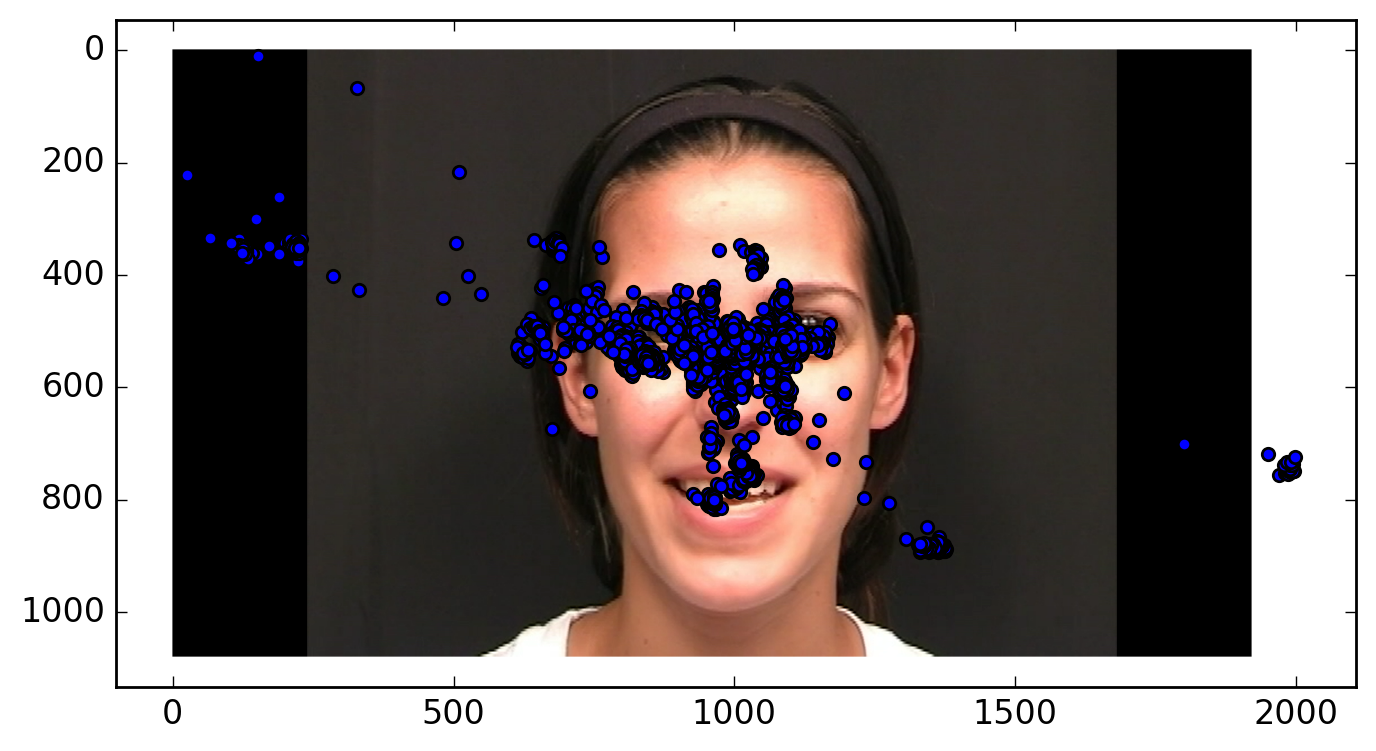
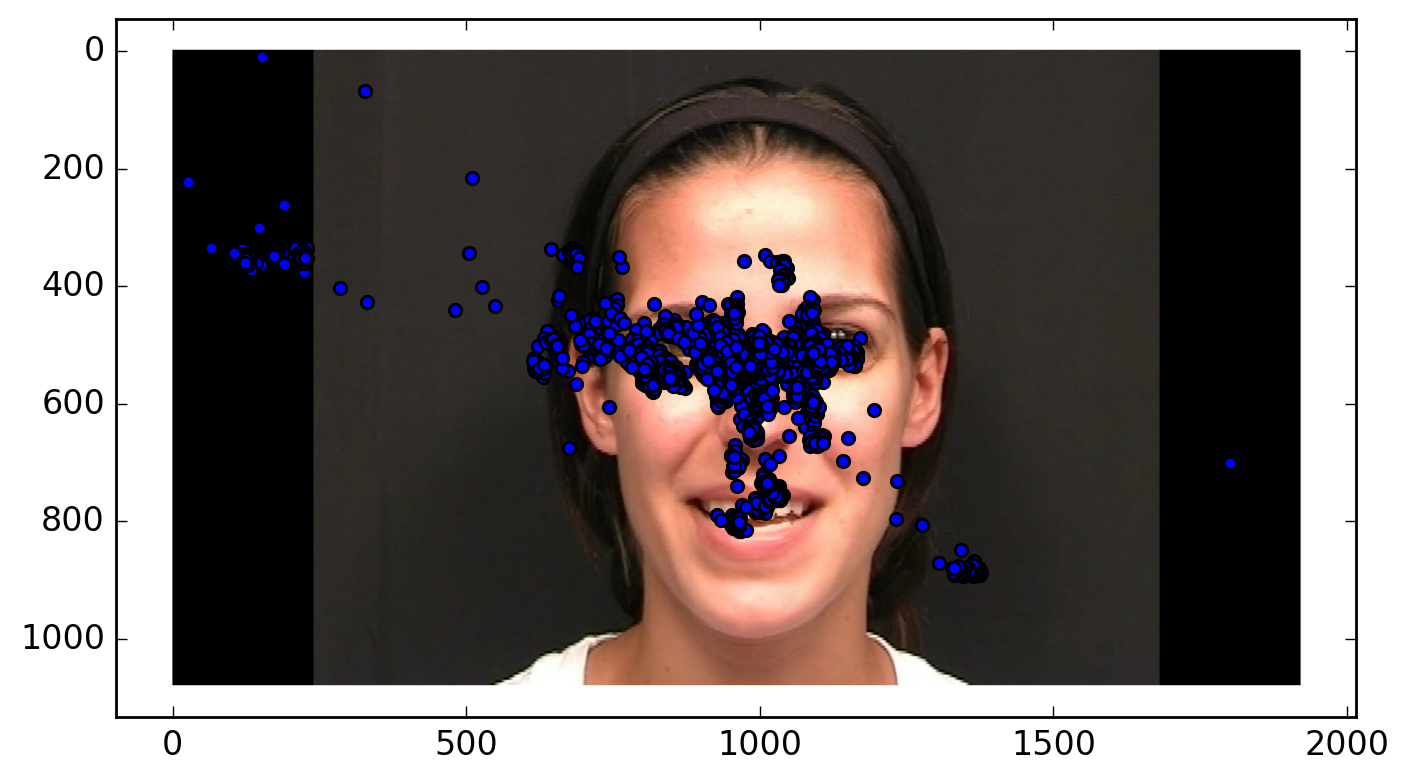
also need to be less than 1

diff --git a/figure_manipulation.py b/figure_manipulation.py
@@ -45,6 +45,6 @@ if __name__ == '__main__':
     attention_per, gazePos = etda.compute_attention_percentage(etdata)
     gazePos_pixel = []
     for gaze in gazePos:
-        if gaze[0]>0 and gaze[1]>0:
+        if 0<gaze[0]<1 and 0<gaze[1]<1:
             gazePos_pixel.append((gaze[0]*1920, gaze[1]*1080))
     plot_gazePos('native_stimulus.png',gazePos_pixel)

diff --git a/et_data_analysis.py b/et_data_analysis.py
@@ -13,7 +13,7 @@ def compute_attention_percentage(etdata):
     y = []
     for i in range(sample_num):
         sample = etdata.iloc[i]
-        if sample.GazeX>0 and sample.GazeY>0:
+        if 0<sample.GazeX<1 and 0<sample.GazeY<1:
             x.append(sample.GazeX)
             y.append(sample.GazeY)
     gazePositions = zip(x,y)
